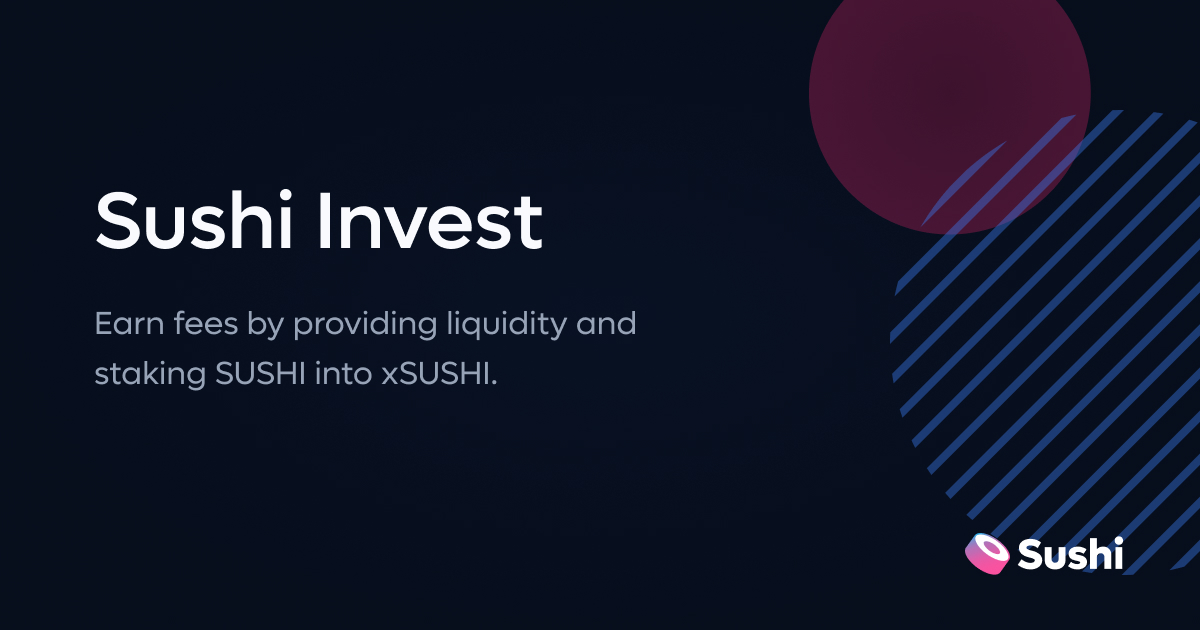
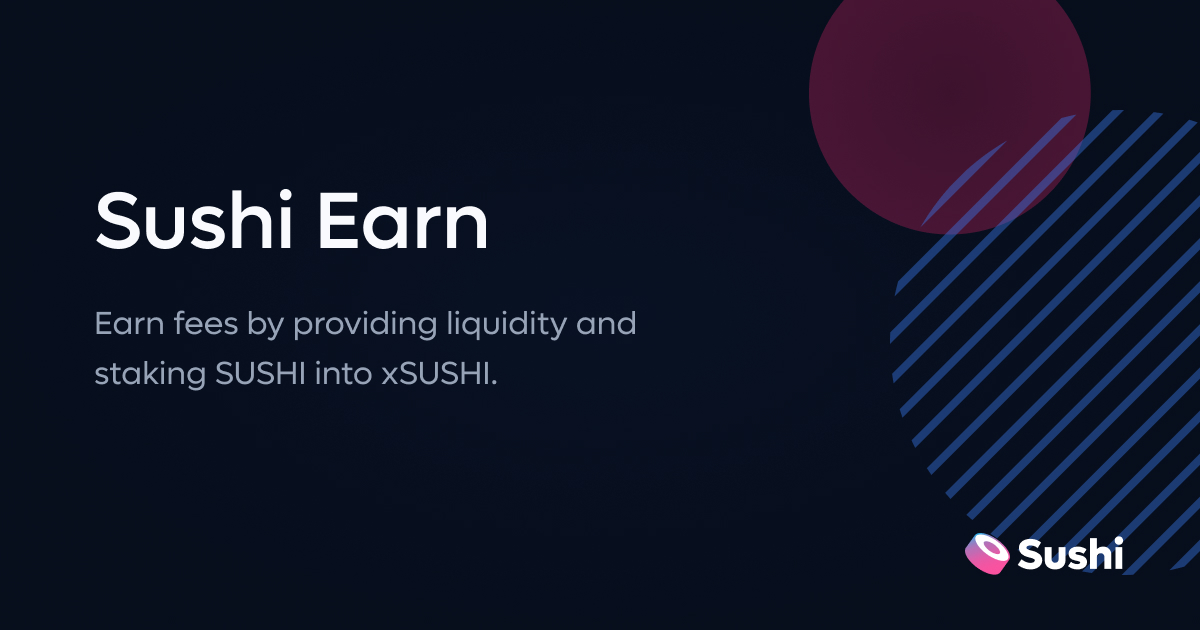
chore(apps/earn): invest -> earn

Changed region(s): [[0.2775, 0.3016, 0.4625, 0.3921]]

diff --git a/packages/ui/app/Header.tsx b/packages/ui/app/Header.tsx
@@ -15,7 +15,7 @@ export enum AppType {
   Internal = 'Internal',
   Kashi = 'Lend & Borrow',
   Analytics = 'Analytics',
-  Invest = 'Invest',
+  Invest = 'Earn',
   Partner = 'Partner',
 }
 
@@ -28,7 +28,7 @@ const LINK = {
   [AppType.Internal]: '/internal',
   [AppType.Kashi]: '/kashi',
   [AppType.Analytics]: '/analytics',
-  [AppType.Invest]: '/invest',
+  [AppType.Invest]: '/earn',
   [AppType.Partner]: '/partner',
 }
 
@@ -109,7 +109,7 @@ export function Header({
                   </Typography>
                   <Select.Option
                     as="a"
-                    href="https://sushi.com/swap"
+                    href="https://www.sushi.com/swap"
                     key={AppType.Swap}
                     value={AppType.Swap}
                     className="!border-slate-700 !cursor-pointer px-2 flex flex-col gap-0 !items-start group"
@@ -121,7 +121,7 @@ export function Header({
                   </Select.Option>
                   <Select.Option
                     as="a"
-                    href="https://sushi.com/xswap"
+                    href="https://www.sushi.com/xswap"
                     key={AppType.xSwap}
                     value={AppType.xSwap}
                     className="!border-slate-700 !cursor-pointer px-2 flex flex-col gap-0 !items-start group"
@@ -133,7 +133,7 @@ export function Header({
                   </Select.Option>
                   <Select.Option
                     as="a"
-                    href="https://sushi.com/invest"
+                    href="https://www.sushi.com/earn"
                     key={AppType.Invest}
                     value={AppType.Invest}
                     className="!border-slate-700 !cursor-pointer px-2 flex flex-col gap-0 !items-start group"
@@ -162,7 +162,7 @@ export function Header({
                   </Select.Option> */}
                   <Select.Option
                     as="a"
-                    href="https://sushi.com/furo"
+                    href="https://www.sushi.com/furo"
                     key={AppType.Furo}
                     value={AppType.Furo}
                     className="!border-slate-700 !cursor-pointer px-2 flex flex-col gap-0 !items-start group"
@@ -174,7 +174,7 @@ export function Header({
                   </Select.Option>
                   <Select.Option
                     as="a"
-                    href="https://sushi.com/analytics"
+                    href="https://www.sushi.com/analytics"
                     key={AppType.Analytics}
                     value={AppType.Analytics}
                     className="!border-slate-700 !cursor-pointer px-2 flex flex-col gap-0 !items-start group"
@@ -191,7 +191,7 @@ export function Header({
                   </Typography>
                   <Select.Option
                     as="a"
-                    href="https://sushi.com/blog"
+                    href="https://www.sushi.com/blog"
                     key={AppType.Blog}
                     value={AppType.Blog}
                     className="!border-slate-700 !cursor-pointer px-2 flex flex-col gap-0 !items-start group"

diff --git a/apps/invest/pages/index.tsx b/apps/invest/pages/index.tsx
@@ -21,7 +21,7 @@ export const getServerSideProps: GetServerSideProps = async ({ query, res }) => 
     props: {
       fallback: {
         [unstable_serialize({
-          url: '/invest/api/pools',
+          url: '/earn/api/pools',
           args: {
             sorting: [
               {
@@ -38,9 +38,9 @@ export const getServerSideProps: GetServerSideProps = async ({ query, res }) => 
             extraQuery: '',
           },
         })]: pairs,
-        [`/invest/api/bundles`]: bundles,
-        [`/invest/api/pools/count`]: poolCount,
-        [`/invest/api/bar`]: bar,
+        [`/earn/api/bundles`]: bundles,
+        [`/earn/api/pools/count`]: poolCount,
+        [`/earn/api/bar`]: bar,
       },
     },
   }
@@ -60,7 +60,7 @@ const _Pools = () => {
       <div className="flex flex-col gap-10 md:gap-16">
         <section className="flex flex-col gap-6 lg:flex-row">
           <div className="max-w-md space-y-4">
-            <h2 className="text-2xl font-semibold text-slate-50">Invest</h2>
+            <h2 className="text-2xl font-semibold text-slate-50">Earn</h2>
             <p className="text-slate-300">Earn fees by providing liquidity and staking SUSHI into xSUSHI.</p>
           </div>
           <div className="flex justify-end flex-grow not-prose">

diff --git a/apps/invest/pages/[id]/remove.tsx b/apps/invest/pages/[id]/remove.tsx
@@ -36,7 +36,7 @@ export const getServerSideProps: GetServerSideProps = async ({ query, res }) => 
   return {
     props: {
       fallback: {
-        [`/invest/api/pool/${query.id}`]: { pair },
+        [`/earn/api/pool/${query.id}`]: { pair },
       },
     },
   }
@@ -52,7 +52,7 @@ const Remove: FC<InferGetServerSidePropsType<typeof getServerSideProps>> = ({ fa
 
 const _Remove = () => {
   const router = useRouter()
-  const { data } = useSWR<{ pair: PairWithAlias }>(`/invest/api/pool/${router.query.id}`, (url) =>
+  const { data } = useSWR<{ pair: PairWithAlias }>(`/earn/api/pool/${router.query.id}`, (url) =>
     fetch(url).then((response) => response.json())
   )
 

diff --git a/apps/invest/pages/[id]/add.tsx b/apps/invest/pages/[id]/add.tsx
@@ -36,7 +36,7 @@ export const getServerSideProps: GetServerSideProps = async ({ query, res }) => 
   return {
     props: {
       fallback: {
-        [`/invest/api/pool/${query.id}`]: { pair },
+        [`/earn/api/pool/${query.id}`]: { pair },
       },
     },
   }
@@ -52,7 +52,7 @@ const Add: FC<InferGetServerSidePropsType<typeof getServerSideProps>> = ({ fallb
 
 const _Add = () => {
   const router = useRouter()
-  const { data } = useSWR<{ pair: PairWithAlias }>(`/invest/api/pool/${router.query.id}`, (url) =>
+  const { data } = useSWR<{ pair: PairWithAlias }>(`/earn/api/pool/${router.query.id}`, (url) =>
     fetch(url).then((response) => response.json())
   )
 

diff --git a/apps/invest/components/PoolsSection/Tables/PoolsTable/PoolsTable.tsx b/apps/invest/components/PoolsSection/Tables/PoolsTable/PoolsTable.tsx
@@ -83,10 +83,10 @@ export const PoolsTable: FC = () => {
     [sorting, pagination, selectedNetworks, query, extraQuery]
   )
 
-  const { data: pools, isValidating } = useSWR<Pair[]>({ url: '/invest/api/pools', args }, fetcher, {})
+  const { data: pools, isValidating } = useSWR<Pair[]>({ url: '/earn/api/pools', args }, fetcher, {})
 
   const { data: poolCount } = useSWR<number>(
-    `/invest/api/pools/count${selectedNetworks ? `?networks=${JSON.stringify(selectedNetworks)}` : ''}`,
+    `/earn/api/pools/count${selectedNetworks ? `?networks=${JSON.stringify(selectedNetworks)}` : ''}`,
     (url) => fetch(url).then((response) => response.json()),
     {}
   )

diff --git a/apps/invest/pages/[id]/index.tsx b/apps/invest/pages/[id]/index.tsx
@@ -36,7 +36,7 @@ export const getServerSideProps: GetServerSideProps = async ({ query, res }) => 
   return {
     props: {
       fallback: {
-        [`/invest/api/pool/${query.id}`]: { pair },
+        [`/earn/api/pool/${query.id}`]: { pair },
       },
     },
   }
@@ -54,7 +54,7 @@ const fetcher = (url) => fetch(url).then((response) => response.json())
 
 const _Pool = () => {
   const router = useRouter()
-  const { data } = useSWR<{ pair: PairWithAlias }>(`/invest/api/pool/${router.query.id}`, fetcher)
+  const { data } = useSWR<{ pair: PairWithAlias }>(`/earn/api/pool/${router.query.id}`, fetcher)
 
   if (!data) return <></>
   const { pair } = data

diff --git a/apps/invest/components/SushiBarSection/SushiBarSectionDesktop.tsx b/apps/invest/components/SushiBarSection/SushiBarSectionDesktop.tsx
@@ -28,7 +28,7 @@ export const SushiBarSectionDesktop: FC = () => {
   const [error, setError] = useState<string>()
   const [, { createNotification }] = useNotifications(address)
 
-  const { data: stats } = useSWR<XSushi>(`/invest/api/bar`, (url) => fetch(url).then((response) => response.json()))
+  const { data: stats } = useSWR<XSushi>(`/earn/api/bar`, (url) => fetch(url).then((response) => response.json()))
 
   const { writeAsync, isLoading: isWritePending } = useDeprecatedContractWrite({
     ...getSushiBarContractConfig(ChainId.ETHEREUM),

diff --git a/apps/invest/components/SushiBarSection/SushiBarSectionMobile.tsx b/apps/invest/components/SushiBarSection/SushiBarSectionMobile.tsx
@@ -28,7 +28,7 @@ export const SushiBarSectionMobile: FC = () => {
   const [value, setValue] = useState('')
   const [error, setError] = useState<string>()
 
-  const { data: stats } = useSWR<XSushi>(`/invest/api/bar`, (url) => fetch(url).then((response) => response.json()))
+  const { data: stats } = useSWR<XSushi>(`/earn/api/bar`, (url) => fetch(url).then((response) => response.json()))
 
   const { writeAsync, isLoading: isWritePending } = useDeprecatedContractWrite({
     ...getSushiBarContractConfig(ChainId.ETHEREUM),

diff --git a/apps/invest/components/PoolsSection/PoolsSection.tsx b/apps/invest/components/PoolsSection/PoolsSection.tsx
@@ -13,7 +13,7 @@ import { TableFilters } from './Tables/TableFilters'
 export const PoolsSection: FC = () => {
   const { selectedNetworks, setFilters } = usePoolFilters()
   const { address } = useAccount()
-  const { data: userWithFarms } = useSWR<UserWithFarm[]>(address ? [`/invest/api/user/${address}`] : null, (url) =>
+  const { data: userWithFarms } = useSWR<UserWithFarm[]>(address ? [`/earn/api/user/${address}`] : null, (url) =>
     fetch(url).then((response) => response.json())
   )
 

diff --git a/apps/invest/components/PoolsSection/Tables/PositionsTable/PositionsTable.tsx b/apps/invest/components/PoolsSection/Tables/PositionsTable/PositionsTable.tsx
@@ -26,7 +26,7 @@ export const PositionsTable: FC = () => {
 
   const { data: userWithFarms, isValidating } = useSWR<UserWithFarm[]>(
     address
-      ? `/invest/api/user/${address}${selectedNetworks ? `?networks=${JSON.stringify(selectedNetworks)}` : ''}`
+      ? `/earn/api/user/${address}${selectedNetworks ? `?networks=${JSON.stringify(selectedNetworks)}` : ''}`
       : null,
     (url) => fetch(url).then((response) => response.json())
   )

diff --git a/apps/invest/components/AddSection/AddSectionStake.tsx b/apps/invest/components/AddSection/AddSectionStake.tsx
@@ -25,7 +25,7 @@ interface AddSectionStakeProps {
 
 export const AddSectionStake: FC<{ poolAddress: string; title?: string }> = ({ poolAddress, title }) => {
   const isMounted = useIsMounted()
-  const { data } = useSWR<{ pair: PairWithAlias }>(`/invest/api/pool/${poolAddress}`, (url) =>
+  const { data } = useSWR<{ pair: PairWithAlias }>(`/earn/api/pool/${poolAddress}`, (url) =>
     fetch(url).then((response) => response.json())
   )
 

diff --git a/apps/kashi/components/MarketSection/MarketButtons.tsx b/apps/kashi/components/MarketSection/MarketButtons.tsx
@@ -16,7 +16,7 @@ export const MarketButtons: FC<MarketButtonsProps> = ({ pair, side }) => {
     <div className="flex flex-col w-full gap-2">
       <Link.Internal href="/earn" passHref={true}>
         <Button as="a" size="md" color="blue" fullWidth>
-          Invest
+          Earn
         </Button>
       </Link.Internal>
       <Link.Internal href={`/${side === 'borrow' ? 'lend' : 'borrow'}/${pair.id}`} passHref={true}>
